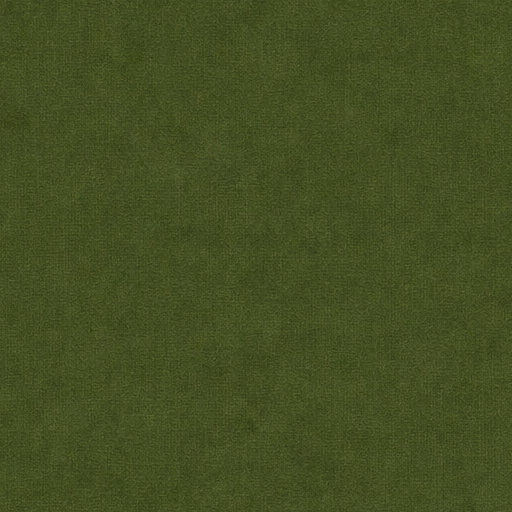
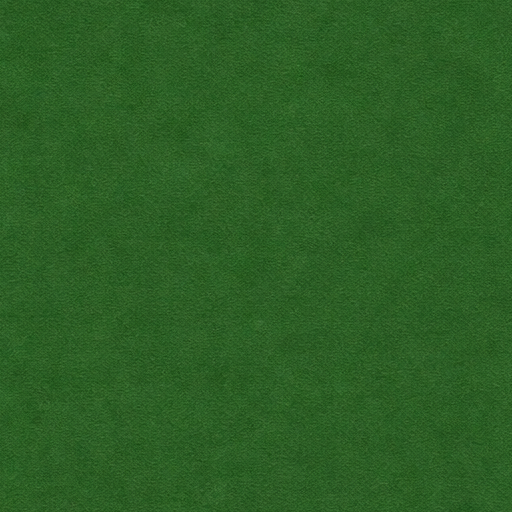
Tune forest/desert tile colors; sync gap fill to desert exactly
Forest was too dark/olive, then overcorrected too neon - landed on a
natural pine-forest green. Desert now matches a specific reference
crop Jake sent (passed as a second input_references image). The
board's between-tile gap fill (CatanTheme.desert, a hardcoded flat
color independent of tile-desert.png) is now set to the new desert
tile's exact sampled RGB so gap and desert tile match precisely.

Claude-Session: https://claude.ai/code/session_01454PvXy951ApESgbZz1ejR

diff --git a/Settlers/Theme/CatanTheme.swift b/Settlers/Theme/CatanTheme.swift
@@ -14,7 +14,7 @@ public enum CatanTheme {
         }
     }
 
-    public static let desert = Color(red: 0.87, green: 0.80, blue: 0.60) // sand beige
+    public static let desert = Color(red: 0.914, green: 0.749, blue: 0.416) // sand beige - matches tile-desert.png exactly (233,191,106)
 
     public static func color(for kind: TileKind) -> Color {
         switch kind {

diff --git a/design-references/STATUS.md b/design-references/STATUS.md
@@ -316,3 +316,26 @@ image they keep pointing back at is the actual spec. If a regeneration technical
 user says "no, not that" while re-sending the *same* reference image, the real ask is "match this
 image," not "try harder at the label." Pass the reference image itself into the generation call
 (`input_references`) rather than re-describing it, once that option exists.
+
+## Aug 21 tile color tuning: forest, desert, and the frame/gap color
+
+Two individual color notes after the take-2 regeneration above:
+- **Forest** came out too dark/muddy-olive on the first try. Overcorrected once (too saturated/neon
+  "kelly green") before landing on a natural, moderately-saturated pine-forest green
+  (`generate_tile.py forest "...RGB around 50,120,55...NOT neon/kelly/grass green...think deep pine
+  forest, not lime" ...`) - final average ~(44,94,37).
+- **Desert** needed to match a specific close-up crop Jake sent of the reference board's desert tile
+  exactly (not just "tan" in the abstract) - passed that crop image as a *second* `input_references` entry
+  alongside the full board reference, with its sampled RGB (223,187,112) spelled out in the prompt too.
+  Landed at (233,191,106), a close match.
+
+**Frame/gap color bug**: `TileDrawing.drawTile` (`Views/Board/TileView.swift`) fills a full-size hex with
+`CatanTheme.desert` *underneath* every tile's shrunk resource texture, so that flat color - not an image -
+is what shows as the manila "grout" between tiles on the whole board. It's a hardcoded `Color(red:green:
+blue:)` in `Theme/CatanTheme.swift`, completely independent of the `tile-desert.png` asset, so tuning the
+desert tile's color doesn't automatically move the gap color - they only look consistent by manual
+coincidence, which had already been asked for as "the gaps need to be the exact same color as the desert
+tile." Fixed by resampling the new `tile-desert.png`'s actual average RGB `(233,191,106)` and hardcoding
+that as `CatanTheme.desert`'s value with a comment noting where it needs to stay in sync. If the desert
+tile's color is tuned again, `CatanTheme.desert` needs a matching update - it will NOT pick it up
+automatically.
